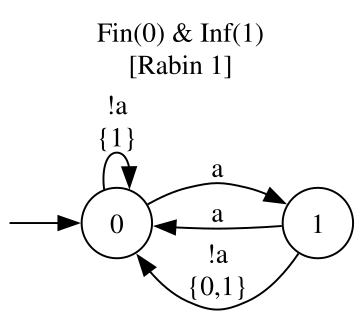
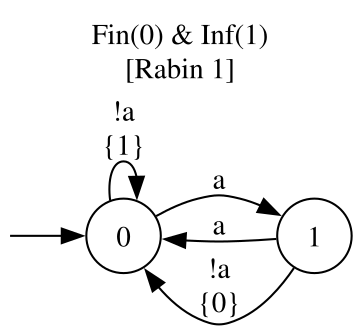
sosg figs: simplify the EvenBlocks automaton marking
Drop the redundant Inf mark from the odd-block !a-edge (`{0 1}` -> `{0}`),
so each !a-transition now carries exactly one mark keyed to the parity of
the block it closes: `{1}` even (Inf(1)) on the self-loop, `{0}` odd
(Fin(0)) on the back edge. No edge is double-labelled.

Same language (verified Spot-equivalent to the PSL reference and to the
old fixture), same |EM1| = 16, byte-identical .sosg invariant. Re-render
the figure and adjust the one §2 sentence describing the mark semantics
(Inf(1) now fires on even-block completions, not all).

diff --git a/research_notes/sosg_constructed.md b/research_notes/sosg_constructed.md
@@ -221,9 +221,11 @@ Emerson–Lei range. `GF(aa)` reads `Inf(0)` for a single mark `0` placed on the
 `a`-transition taken from the "just saw an `a`" state — the run passes `0`
 infinitely often iff `aa` recurs. `Even` is a guarantee: `Inf(0)` for the mark on
 the accepting sink's self-loops — the run reaches the sink (after an even `a`-prefix
-closed by `!a`) or never does. `EvenBlocks` needs the full `Fin(0) ∧ Inf(1)` shape:
-`Inf(1)` forces infinitely many `!a`'s (block completions), `Fin(0)` forbids an
-odd-length completed block infinitely often. The residuals separate `Even`'s four
+closed by `!a`) or never does. `EvenBlocks` needs the full `Fin(0) ∧ Inf(1)` shape,
+each `!a`-transition marked by the parity of the block it closes — mark `1` on an
+even block, mark `0` on an odd one: `Inf(1)` forces infinitely many even-block
+completions, `Fin(0)` forbids an odd one infinitely often, so together eventually
+every completed block is even and infinitely many complete. The residuals separate `Even`'s four
 states pairwise (`q₀ ≠ q₁` because one `!a` accepts, the other rejects) but collapse
 both states of `EvenBlocks` to a single residual — the prefix-independence that
 Proposition 4.6 will read algebraically.